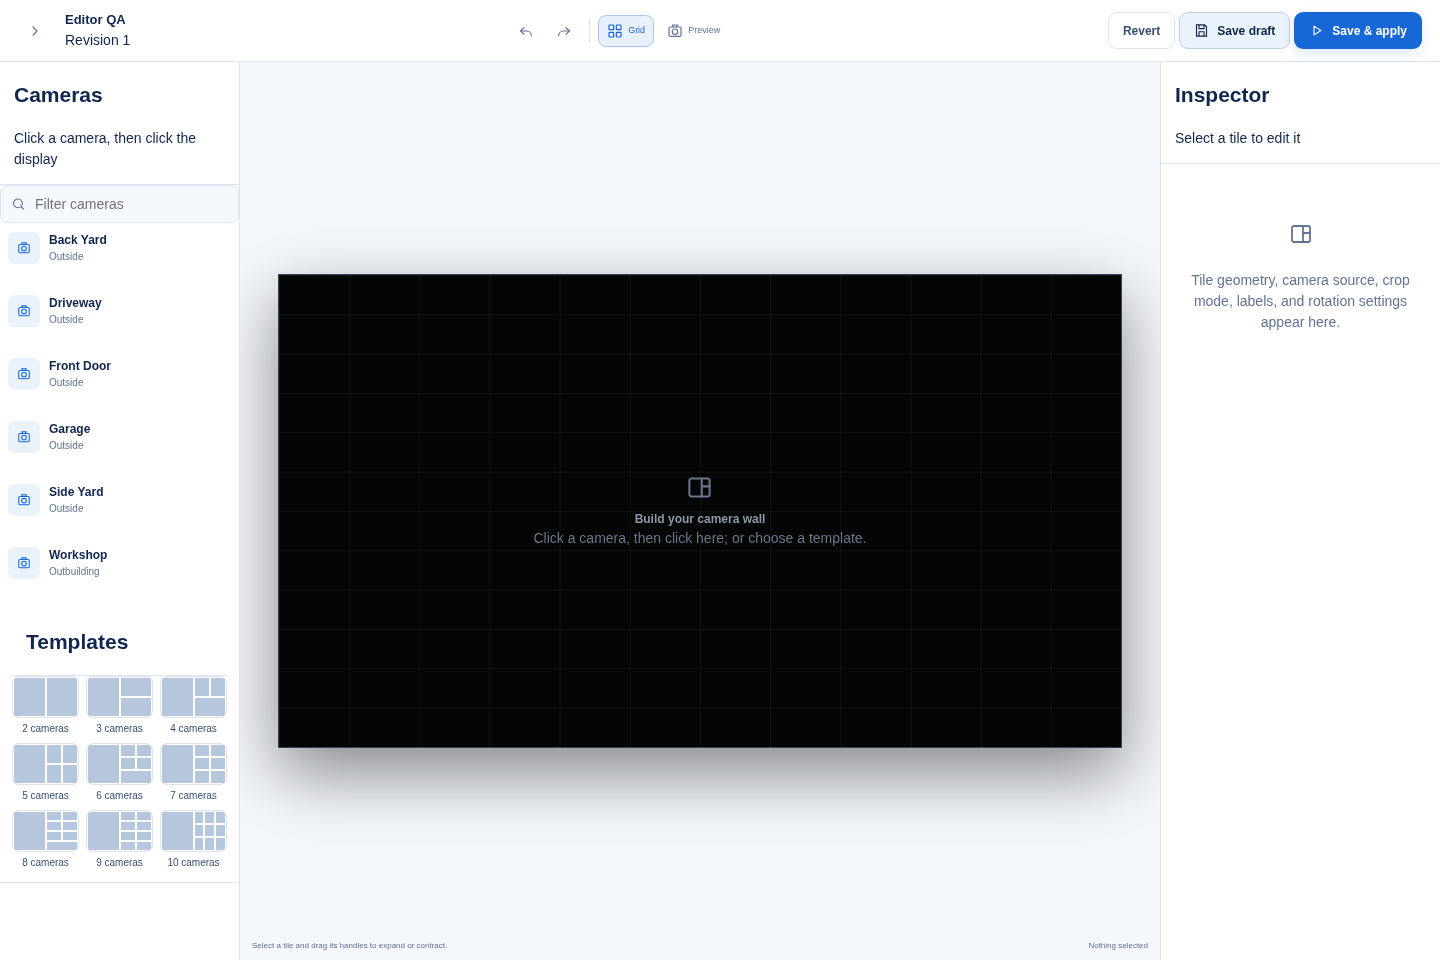
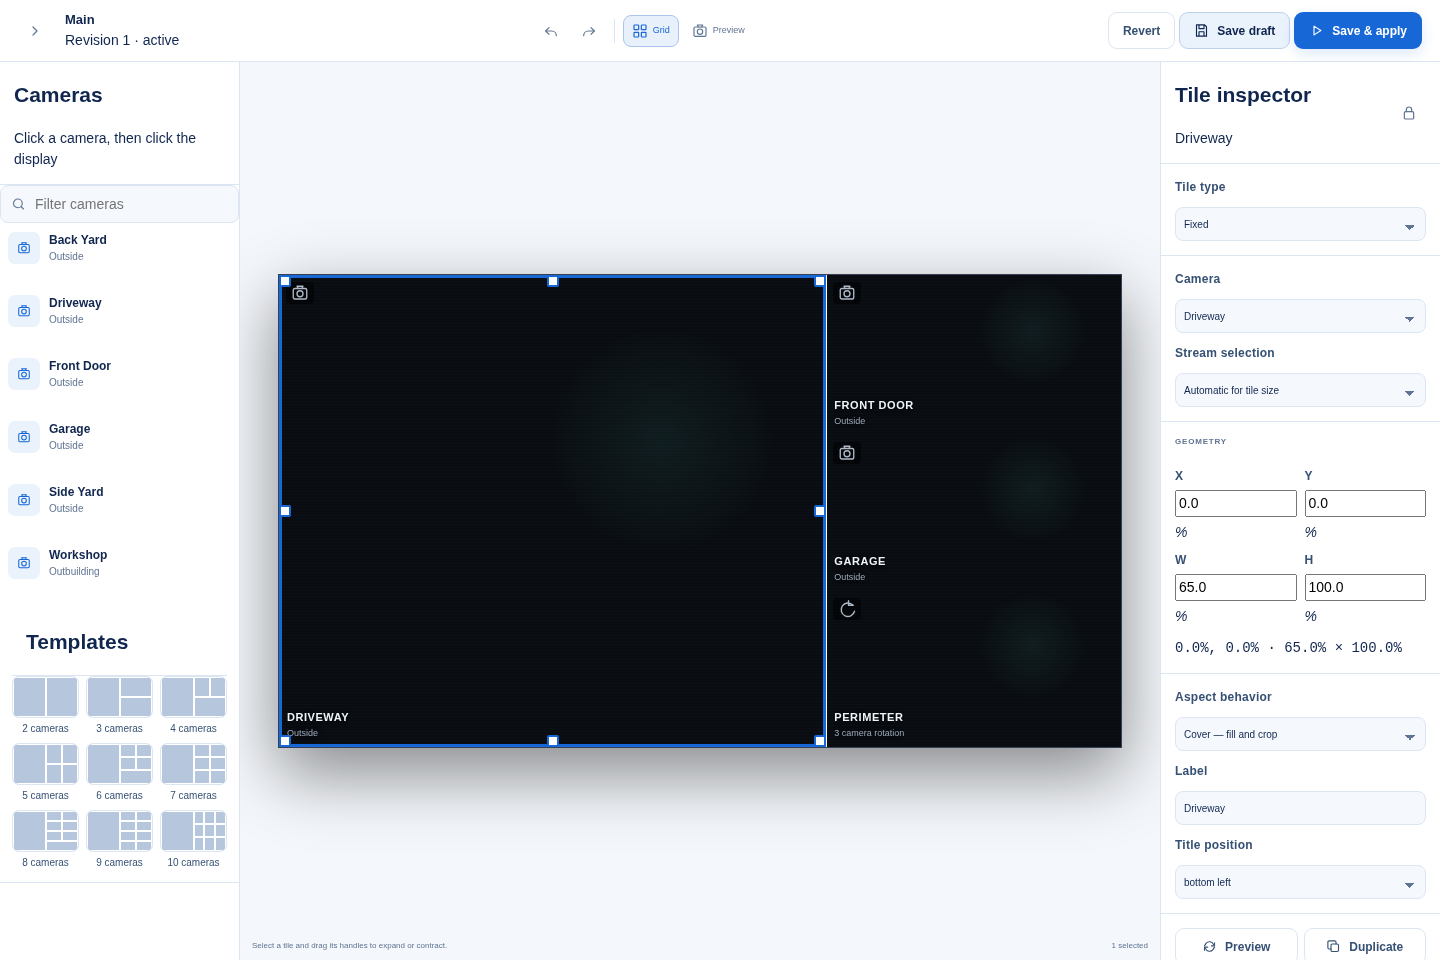
Show selected layout tile and record live beta validation

diff --git a/scripts/capture_screenshots.py b/scripts/capture_screenshots.py
@@ -43,8 +43,11 @@ def main() -> None:
 
         page.goto(f"{args.base_url.rstrip('/')}/layouts", wait_until="domcontentloaded")
         page.wait_for_selector(".layout-row")
-        page.locator('a[href$="/edit"]').first.click()
+        active_edit = page.locator('.layout-row.is-active a[href$="/edit"]')
+        (active_edit if active_edit.count() else page.locator('a[href$="/edit"]')).first.click()
         page.wait_for_selector(".layout-canvas")
+        if page.locator(".canvas-slot").count():
+            page.locator(".canvas-slot").first.click()
         page.screenshot(path=output / "layout-editor.png", full_page=True)
 
         mobile = browser.new_page(viewport={"width": 390, "height": 844})

diff --git a/BUILD-VERIFICATION.md b/BUILD-VERIFICATION.md
@@ -8,7 +8,7 @@ Verification performed on 2026-10-07 (America/New_York) for the Mosaivue private
 - Frontend TypeScript type check, production build, and Node test suite: **passed** (3 Node tests).
 - Python bytecode compilation, shell syntax checks, and `scripts/check_release.py`: **passed**.
 - Generated OpenAPI snapshot: **51 paths**, version **0.1.0b1**.
[2 lines of base64/hex data omitted]
 - The Pi installer built and installed a Mosaivue wheel with Python 3.11 on 32-bit Bullseye. A pinned SQLAlchemy wheel and target-built cffi avoided binary incompatibilities.
 - Gitleaks directory scan: **no findings**.
 - Authenticated Chromium checks on the Pi loaded the supplied logo, the OMX-specific display message, rotation cards without a transition setting, and the corrected security audit, with no page errors.
@@ -16,7 +16,7 @@ Verification performed on 2026-10-07 (America/New_York) for the Mosaivue private
 
 ## Hardware evidence and remaining qualification
 
-One Raspberry Pi 3B+ running 32-bit Bullseye is running Mosaivue with seven live camera tiles through OMXPlayer at 1920×1080. The rotating tile completed at least 21 switches with zero recovery restarts. The migrated key, config, and database have expected owner and mode checks; the audit passes with a LAN HTTP advisory. The previous services remain installed and rollback was exercised during migration. Physical-display cut continuity awaits viewer confirmation.
+One Raspberry Pi 3B+ running 32-bit Bullseye is running Mosaivue with seven live camera tiles through OMXPlayer at 1920×1080. After restarting into the final runtime, the rotating tile completed seven observed cuts with zero recovery restarts; each logged a preconnected cut of 250–325 ms and no rotation errors. The migrated key, config, and database have expected owner and mode checks; the audit passes with a LAN HTTP advisory. The previous services and the previous Mosaivue release remain installed, and rollback was exercised during migration. Physical-display cut continuity awaits viewer confirmation.
 
 Physical DRM/KMS output and hardware decoding through GStreamer on Pi 4, Pi 5, and ROCK Pi 4+ remain unqualified. Run the [hardware test plan](docs/hardware-test-plan.md) before making device-specific capacity claims.
 
